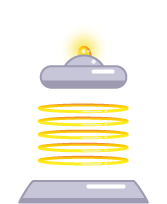
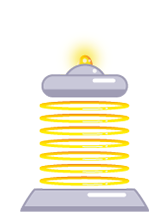
Add teleport script

Changed region(s): [[0.0898, 0.1471, 0.8982, 1.0]]

diff --git a/Scenes/Teleport.cs b/Scenes/Teleport.cs
@@ -1,0 +1,34 @@
+using Godot;
+using System;
+
+public class Teleport : Area2D
+{
+    private bool teleportInProgress;
+
+    [Signal]
+    public delegate void OnMainCharacterTeleportation();
+
+    public void _on_Area2D_body_entered(Node body)
+    {
+        if (body is MainCharacter mainCharacter)
+        {
+            var animator = this.GetNode<AnimatedSprite>("AnimatedSprite");
+
+            mainCharacter.Stun(1);
+
+            animator.Play("activated");
+
+            this.teleportInProgress = true;
+        }
+    }
+
+    public void _on_AnimatedSprite_animation_finished()
+    {
+        if (this.teleportInProgress)
+        {
+            this.teleportInProgress = false;
+            this.EmitSignal(nameof(OnMainCharacterTeleportation));
+            this.GetNode<AnimatedSprite>("AnimatedSprite").Play("standBy");
+        }
+    }
+}

diff --git a/TestFlo.cs b/TestFlo.cs
@@ -20,4 +20,10 @@ public class TestFlo : TileMap
             this.mainCharacter.Position = initialPosition;
         }
     }
+
+    public void _OnMainCharacterTeleportation()
+    {
+        GD.Print("Teleported !!");
+        this.mainCharacter.Position = this.initialPosition;
+    }
 }
